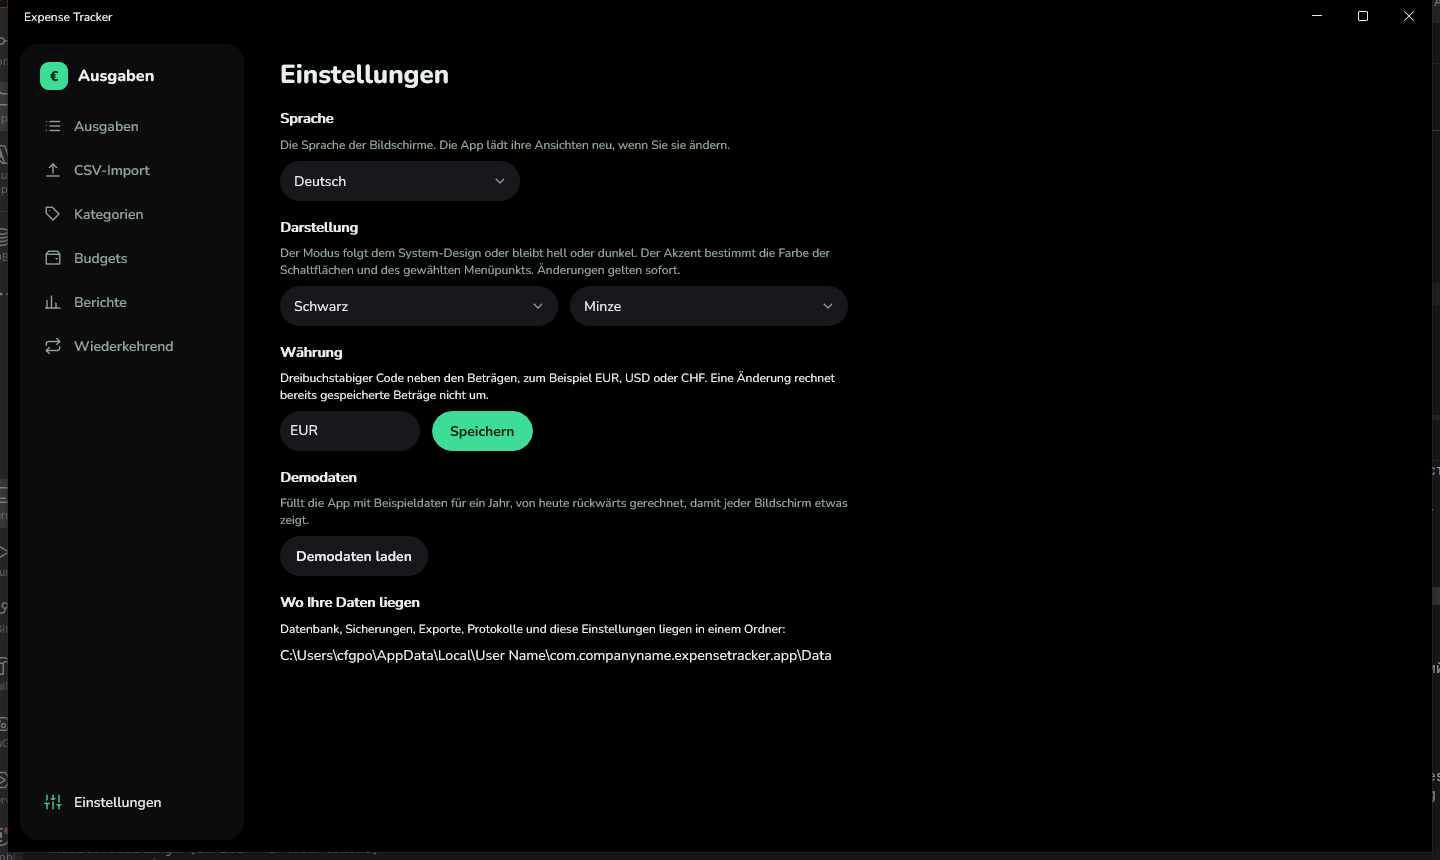
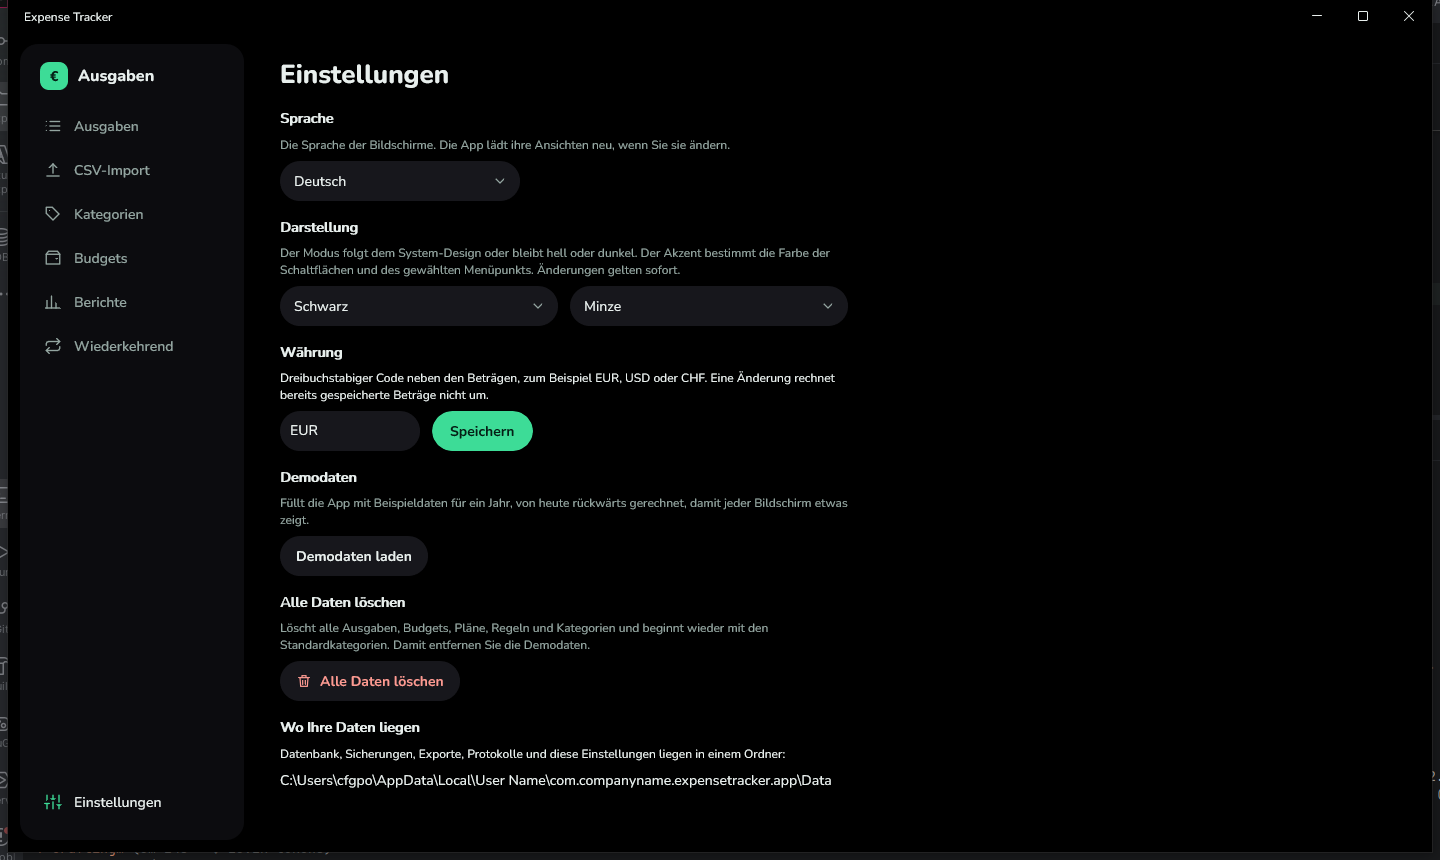
docs: describe Clear all data and the 18 starting categories

Changed region(s): [[0.1875, 0.6953, 0.5625, 0.9372]]

diff --git a/docs/de/BENUTZERHANDBUCH.md b/docs/de/BENUTZERHANDBUCH.md
@@ -200,6 +200,9 @@ Für Zahlungen, die sich wiederholen: Miete, Abonnements, Versicherungen.
 - **Demodaten**: **Demodaten laden** fügt Beispielausgaben, Budgets, Wiederholungspläne und Regeln für ein Jahr hinzu,
   von heute rückwärts gerechnet, damit jeder Bildschirm etwas zeigt. Ihre eigenen Daten bleiben erhalten; zuvor wird
   eine Sicherung erstellt. Zweimaliges Laden fügt weitere Ausgaben hinzu.
+- **Alle Daten löschen**: löscht alle Ausgaben, Budgets, Pläne, Regeln und Kategorien und beginnt wieder mit den
+  Standardkategorien, zum Beispiel um die Demodaten zu entfernen. Zuvor wird eine Sicherung gespeichert; mit
+  **Sicherung → Aus Sicherung wiederherstellen** auf dem Ausgaben-Bildschirm machen Sie es rückgängig.
 - **Wo Ihre Daten liegen**: der Ordner mit Datenbank, Sicherungen, Exporten, Protokollen und Einstellungen.
 
 ## 9. Ihre Daten

diff --git a/README.de.md b/README.de.md
@@ -55,8 +55,8 @@ Die englischen Fassungen liegen in [`docs/en`](docs/en).
 
 Ein sofort lauffähiger Windows-Build (64 Bit, ohne Installation, ohne .NET) liegt auf der
 [Releases-Seite](https://github.com/BigJellyDog/CLI_Budget_Expense_Tracker/releases/latest): Zip herunterladen,
-entpacken und `ExpenseTracker.App.exe` starten. Die App startet leer: unter **Einstellungen → Demodaten laden** füllt
-sich jeder Bildschirm mit Beispieldaten für ein Jahr.
+entpacken und `ExpenseTracker.App.exe` starten. Die App startet mit 18 Standardkategorien und ohne Ausgaben: unter **Einstellungen → Demodaten laden** füllt
+sich jeder Bildschirm mit Beispieldaten für ein Jahr; **Alle Daten löschen** entfernt sie wieder.
 
 ## Schnellstart (aus dem Quellcode)
 

diff --git a/docs/en/USER_GUIDE.md b/docs/en/USER_GUIDE.md
@@ -187,6 +187,9 @@ For payments that repeat: rent, subscriptions, insurance.
 - **Demo data**: **Load demo data** adds a year of sample expenses, budgets, recurring schedules and rules,
   counted back from today, so every screen has something to show. Your own data stays; a backup is made first.
   Loading it twice adds more expenses.
+- **Clear all data**: deletes every expense, budget, schedule, rule and category and starts again with the standard
+  categories, for example to remove the demo data. A backup is saved first; you can undo it with **Backup →
+  Restore from backup** on the Expenses screen.
 - **Where your data is**: the folder with the database, backups, exports, logs and settings.
 
 ## 9. Your data

diff --git a/README.md b/README.md
@@ -55,8 +55,8 @@ The German versions are in [`docs/de`](docs/de).
 
 A ready-to-run Windows build (64-bit, no installation, no .NET needed) is on the
 [Releases page](https://github.com/BigJellyDog/CLI_Budget_Expense_Tracker/releases/latest): download the zip,
-extract it and start `ExpenseTracker.App.exe`. The app starts empty: open **Settings → Load demo data** to fill
-every screen with a year of sample data.
+extract it and start `ExpenseTracker.App.exe`. The app starts with 18 standard categories and no expenses: open **Settings → Load demo data**
+to fill every screen with a year of sample data, and **Clear all data** to remove it again.
 
 ## Quick start (from source)
 
